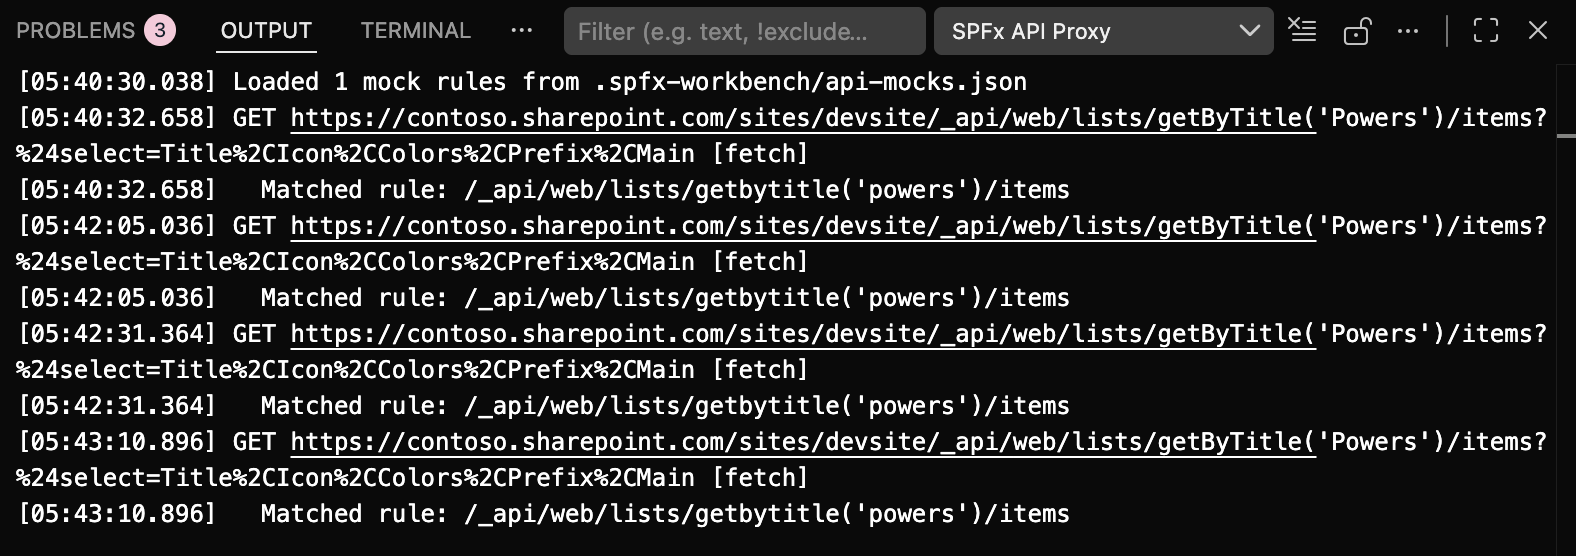
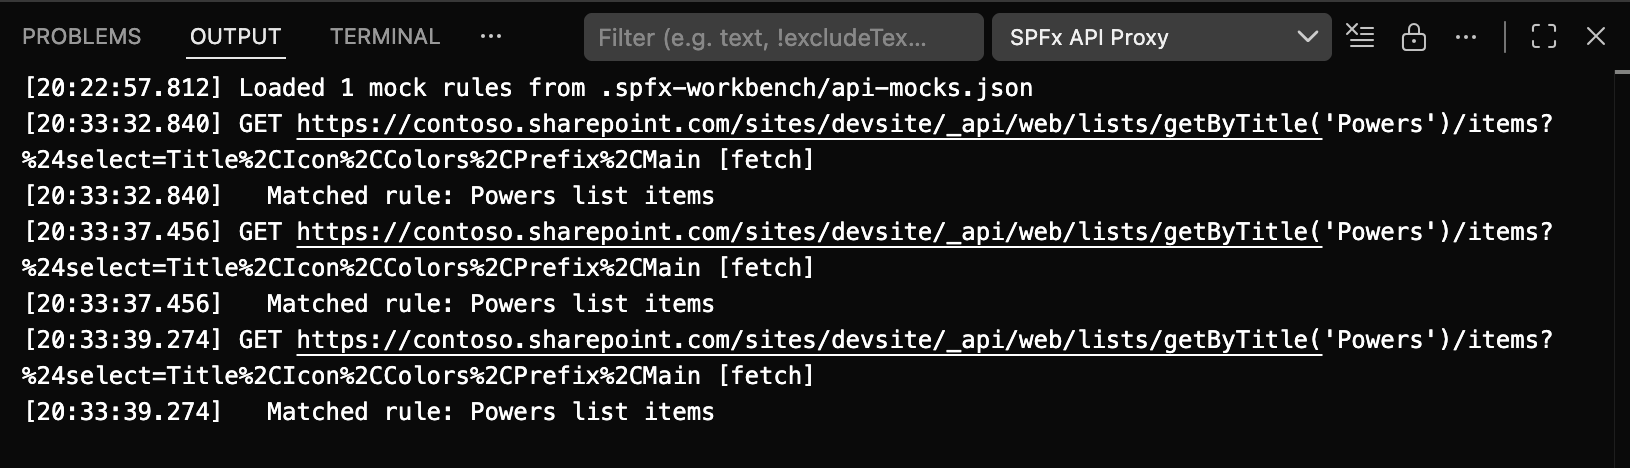
Lab 09 Updates

diff --git a/Lab09/README.md b/Lab09/README.md
@@ -114,7 +114,7 @@ We do this through [interfaces](https://www.typescriptlang.org/docs/handbook/2/o
  1. Inside the `JarbisWebPart` class, above the `render` method, add a variable to store an array of `IPowerItem` after they have been loaded from SharePoint by adding the following code:
 
     ```TypeScript
-    private powers: IPowerItem[];
+    private powers: IPowerItem[] | undefined;
     ```
 
 1. In the `IJarbisWebPartProps` interface located just under the imports in the **JarbisWebPart.ts** file, add a string property called `list`, which will store the name of the list where powers will be retrieved from by adding the following code:
@@ -279,9 +279,17 @@ Time to implement caching! Fortunately, PnPjs makes it super easy! Let's start b
 
 ### Test caching in the SPFx Local Workbench
 
-1. Switch to the **OUTPUT** tab in the terminal pane and use the dropdown to select `SPFx API Proxy`. Here we can see details about all proxied calls. Add and remove the web part a few times to see the call happens every time. This makes our hearts heavy with grief.
+1. Click the **Mock Data** button in the SPFx Local Workbench panel title:
 
-  ![SPFx API Proxy](assets/spfxlocalworkbenchapiproxylog.png)
+    ![Mock Data button](assets/spfxlocalworkbenchmockdatabutton.png)
+
+1. Choose **Show API Proxy Log** to have the **OUTPUT** panel shown and filtered to the **SPFx API Proxy** output channel:
+
+    ![](assets/spfxlocalworkbenchmockdatashowlog.png)
+
+1. Here we can see details about all proxied calls. Add and remove the web part a few times to see the call happens every time. This makes our hearts heavy with grief.
+
+    ![SPFx API Proxy](assets/spfxlocalworkbenchapiproxylog.png)
 
 ### Caching time!
 
@@ -315,9 +323,9 @@ Time to implement caching! Fortunately, PnPjs makes it super easy! Let's start b
 
 Now we're loading data and we're doing it smarterly with caching. But we've still got the issue that we're loading the data on *every* render which is just unnecessary.
 
-We also only need to load the data when we're generating a random hero which is something we only do when in Edit mode. The intent is that the web part will pull the hero values from its property bag when the page is in Read mode.
+We also only need to load the data when we're generating a random hero which is something we will only do when in Edit mode. The intent is that the web part will pull the hero values from its property bag when the page is in Read mode.
 
-There's also no indicator to the end user that something is being loaded behind the scenes. You can cover a lot of performance issues (many of which might be out of your control) by simply providing feedback to the user - preferably through animation.
+There's also no indicator to the end user that something is being loaded behind the scenes. You can cover a lot of performance issues (many of which might be out of your control) by simply providing feedback to the user - preferably through **animation**.
 
 1. In the `render` method, replace the `this.getPowers()...` call with the following:
     ```TypeScript
@@ -391,7 +399,7 @@ export interface IJarbisWebPartProps {
 
 export default class JarbisWebPart extends BaseClientSideWebPart<IJarbisWebPartProps> {
 
-  private powers: IPowerItem[];
+  private powers: IPowerItem[] | undefined;
 
   public render(): void {
     const oldbuttons = this.domElement.getElementsByClassName(styles.generateButton);
